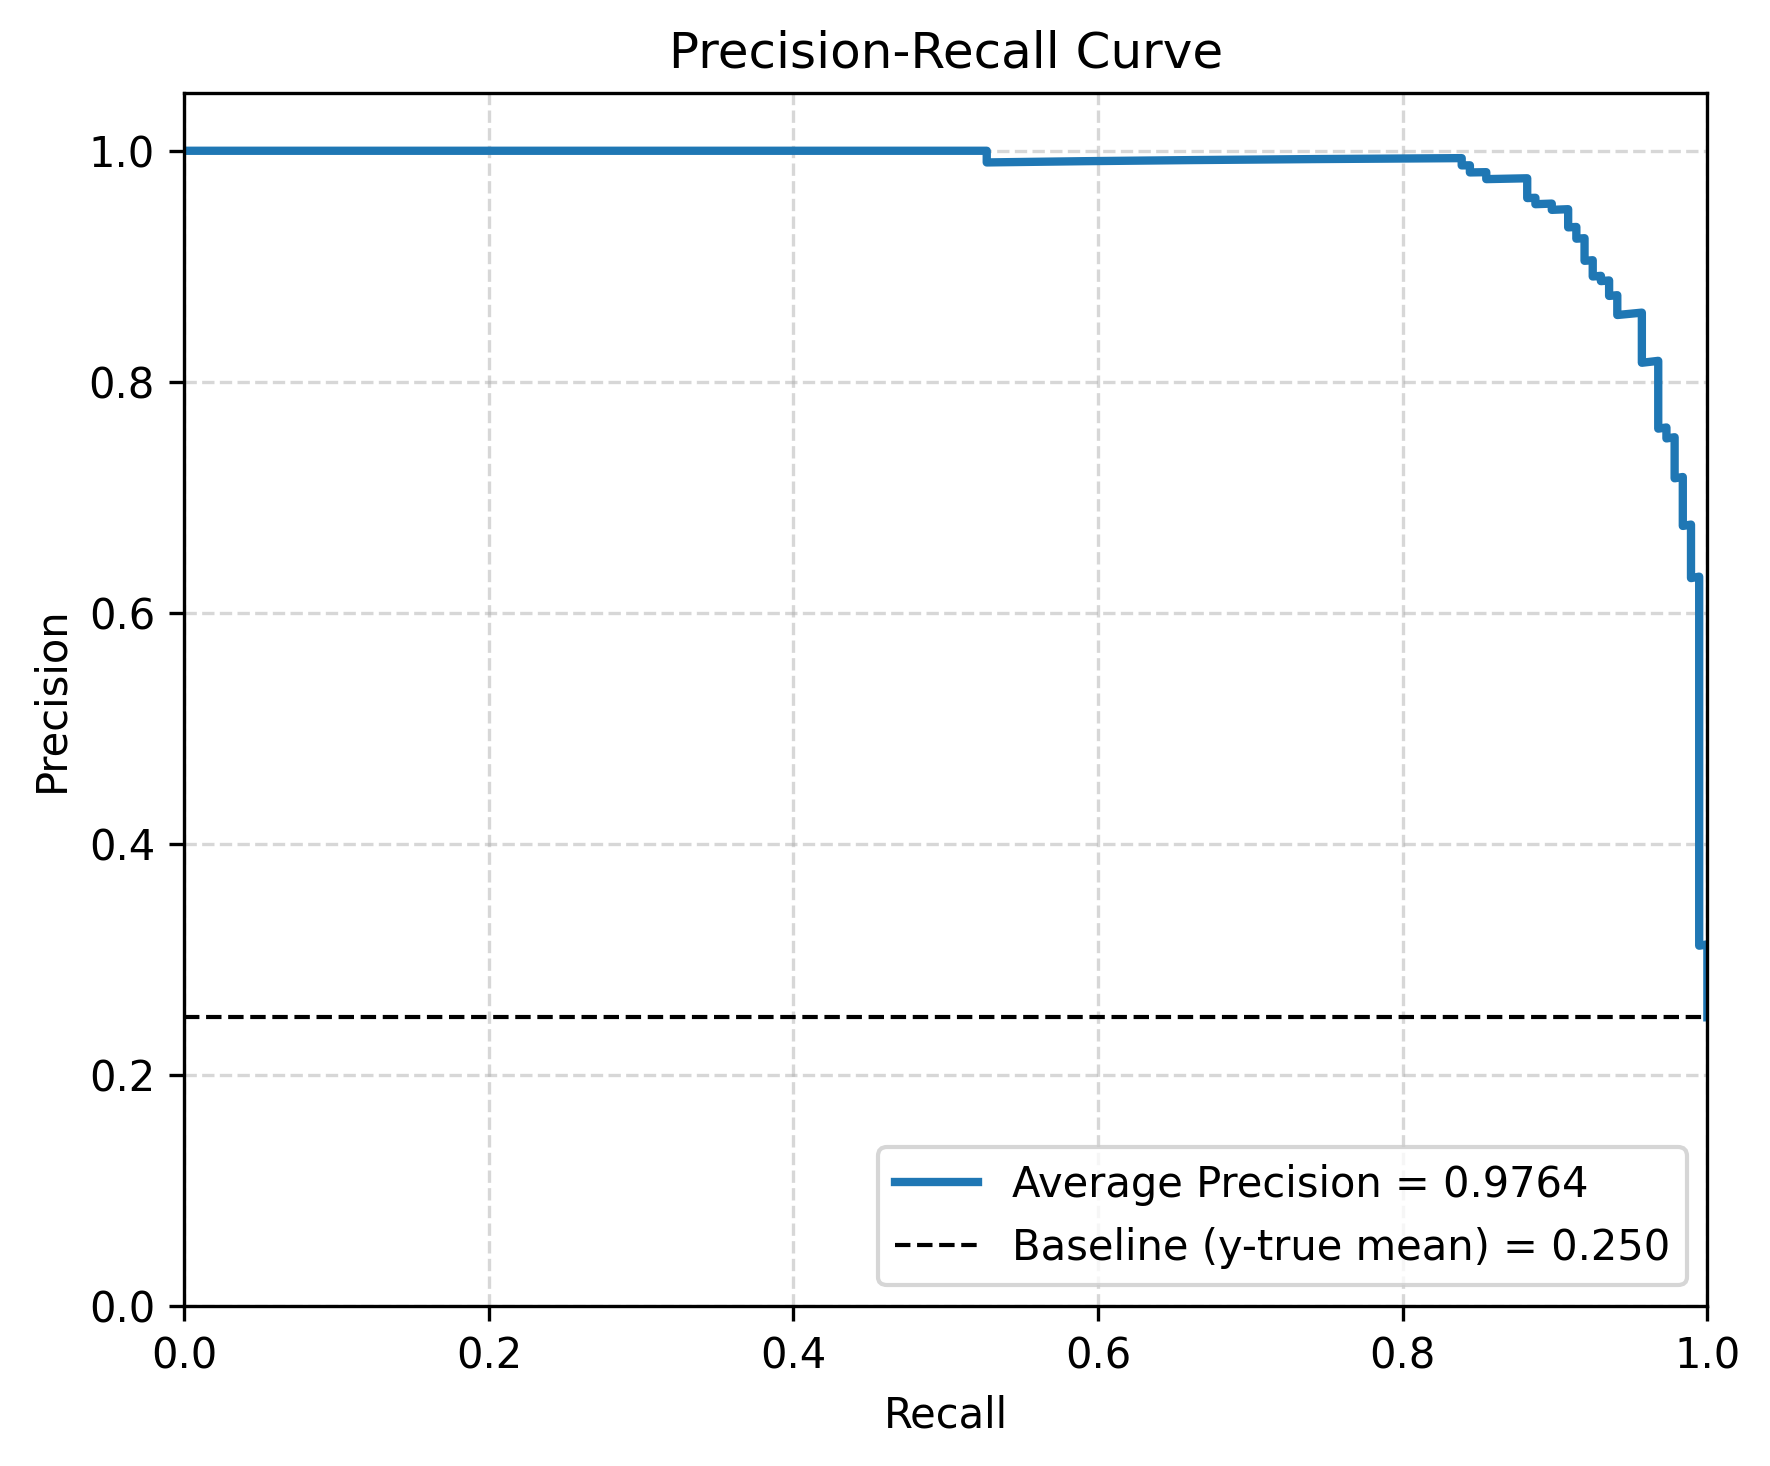
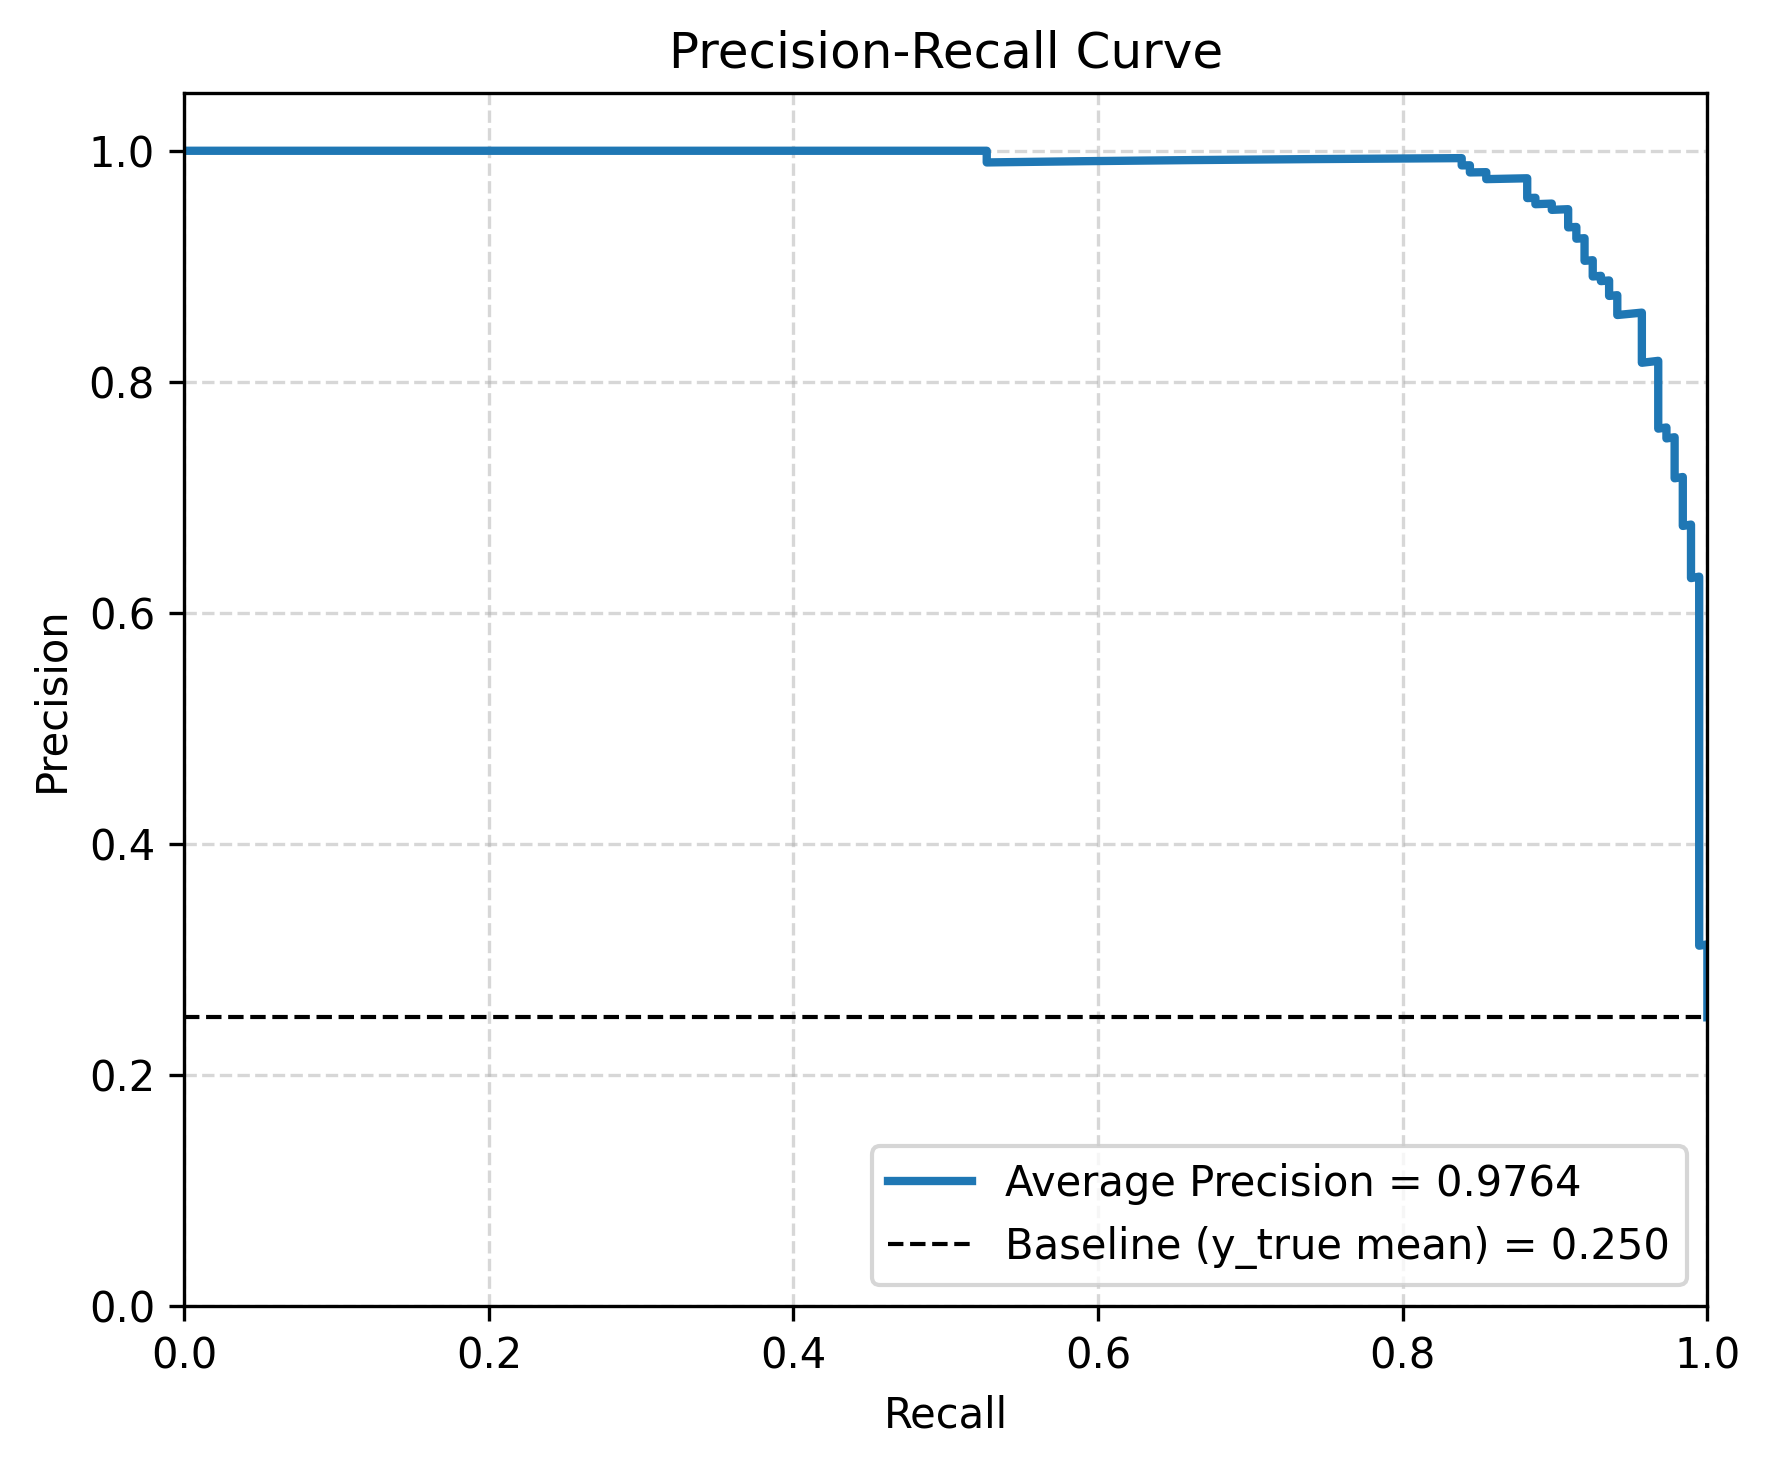
Change y-mean to y_mean in pr_curve figure

Changed region(s): [[0.5593, 0.7674, 0.9011, 0.8595], [0.4661, 0.7981, 0.5282, 0.8595], [0.9011, 0.8288, 0.9322, 0.8595]]

diff --git a/src/elp_gunshot/evaluate_cnn.py b/src/elp_gunshot/evaluate_cnn.py
@@ -168,7 +168,7 @@ def plot_pr_curve(preds_df: pd.DataFrame, output_dir: Path) -> None:
 
     fig, ax = plt.subplots(figsize=(6, 5))
     ax.plot(recall, precision, lw=2, label=f"Average Precision = {ap:.4f}")
-    ax.axhline(baseline, color="k", linestyle="--", lw=1, label=f"Baseline (y-true mean) = {baseline:.3f}")
+    ax.axhline(baseline, color="k", linestyle="--", lw=1, label=f"Baseline (y_true mean) = {baseline:.3f}")
     ax.set_xlabel("Recall")
     ax.set_ylabel("Precision")
     ax.set_title("Precision-Recall Curve")
